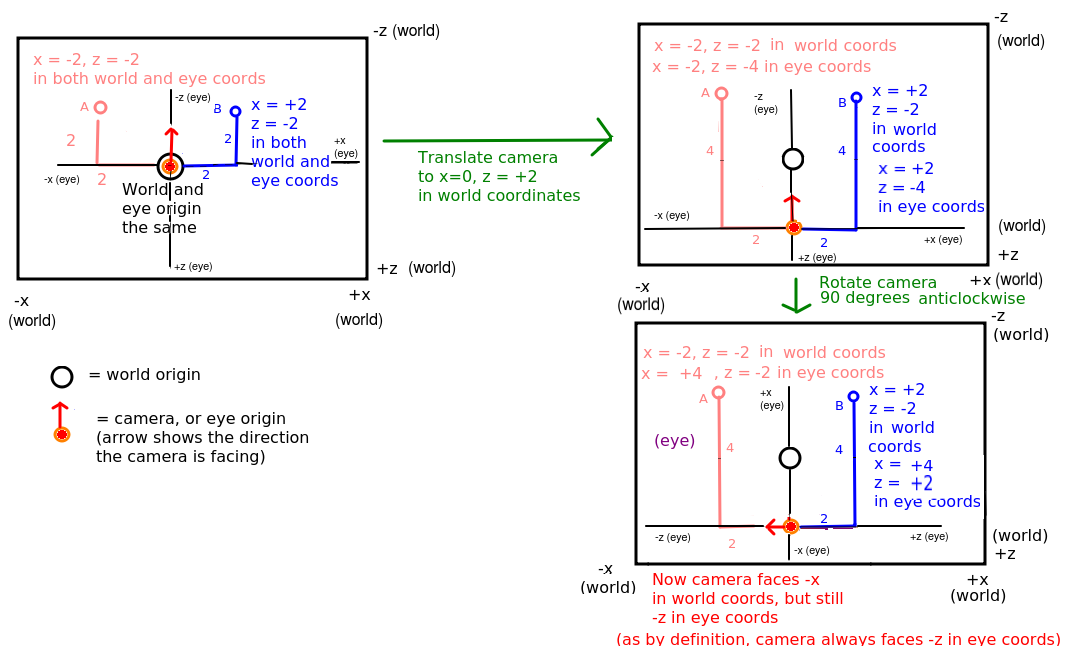
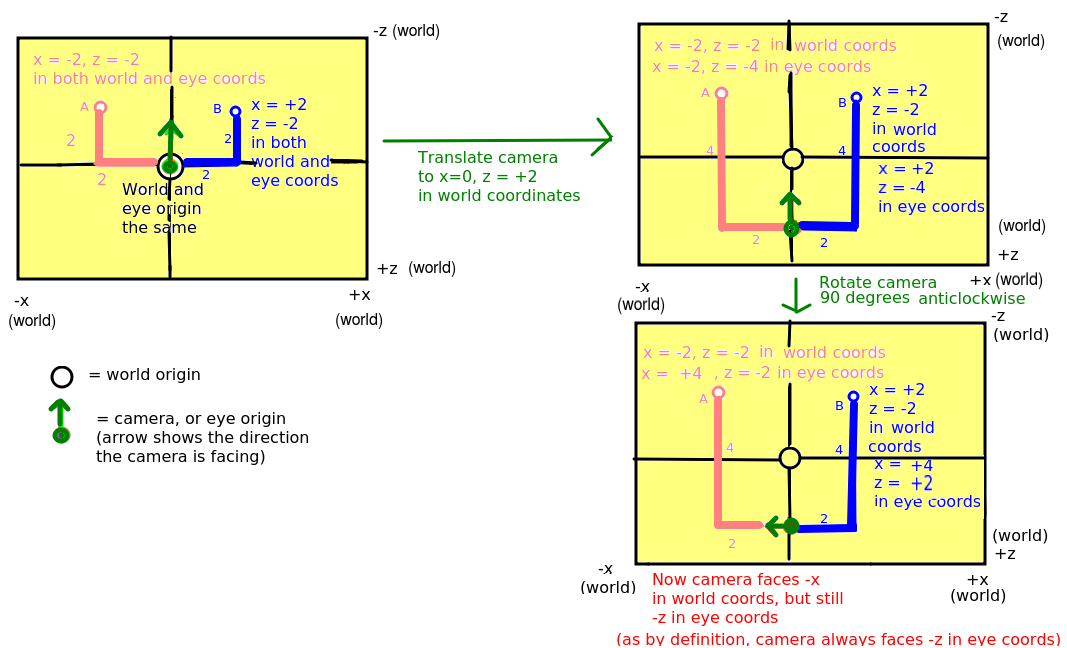
COM626 week 6 world and eye coords exercise

diff --git a/COM626/opengl_practical.html b/COM626/opengl_practical.html
@@ -305,8 +305,14 @@ of the second triangle), and the number of vertices to draw is 3.</p>
 
 <h2>Exercise</h2>
 
-<p><strong>TODO world and eye coordinates paper exercise.</strong></p>
+<h3>Paper exercise</h3>
+<p>Look at this diagram:
+<br />
+<img src="../images/world_eye_exercise.png" alt="World and eye coordinates exercise" style="border: 1px solid black; margin: 5px"/>
+<br />
+For each of the four diagrams, state the <em>eye coordinates</em> of the red and blue boxes. The <em>world coordinates</em> of the camera and of the red and blue boxes are shown in each case.</p>
 
+<h3>Coding exercise</h3>
 <p>We are going to develop a simple OpenGL application to draw first one, then
 two red triangles, and finally two triangles in different colours. </p>
 
